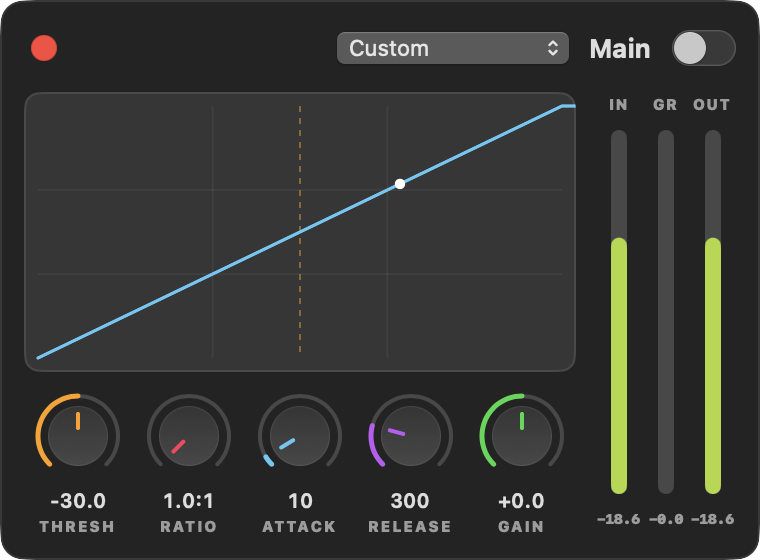
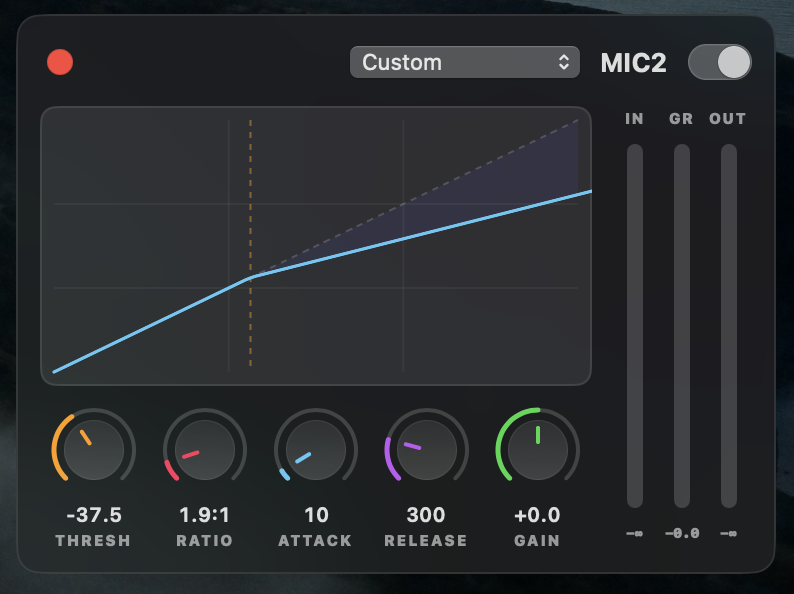
Replace the popover, EQ and compressor screenshots, drop the web remote shot
New screenshots show the popover over the desktop and the EQ/compressor
panels of individual channels.

diff --git a/README.md b/README.md
@@ -20,10 +20,10 @@ Dim / Mono / Speaker B, +48V / Inst на входах, уровни и веб-п
 
 <p align="center">
   <img src="docs/screenshots/popover.png" width="270" alt="Поповер в строке меню">
-  <img src="docs/screenshots/web-remote.png" width="270" alt="Веб-пульт на телефоне">
   <img src="docs/screenshots/levels.png" width="270" alt="Индикаторы уровней входов">
+  <img src="docs/screenshots/hud.png" width="270" alt="HUD громкости">
 </p>
-<p align="center"><sub>Поповер · веб-пульт для телефона · уровни входов</sub></p>
+<p align="center"><sub>Поповер · уровни входов · HUD громкости</sub></p>
 
 <details>
 <summary>Ещё скриншоты: настройки, компрессор, эквалайзер, HUD</summary>
@@ -42,7 +42,6 @@ Dim / Mono / Speaker B, +48V / Inst на входах, уровни и веб-п
 </p>
 <p align="center">
   <img src="docs/screenshots/settings-web-remote.png" width="410" alt="Настройки — Web Remote">
-  <img src="docs/screenshots/hud.png" width="250" alt="HUD громкости">
 </p>
 
 </details>

diff --git a/README.en.md b/README.en.md
@@ -16,10 +16,10 @@ Speaker B, +48V and Inst on inputs, level meters, and a web remote for your phon
 
 <p align="center">
   <img src="docs/screenshots/popover.png" width="270" alt="Menu bar popover">
-  <img src="docs/screenshots/web-remote.png" width="270" alt="Web remote on a phone">
   <img src="docs/screenshots/levels.png" width="270" alt="Input level meters">
+  <img src="docs/screenshots/hud.png" width="270" alt="Volume HUD">
 </p>
-<p align="center"><sub>Popover · web remote on a phone · input levels</sub></p>
+<p align="center"><sub>Popover · input levels · volume HUD</sub></p>
 
 <details>
 <summary>More: settings, compressor, EQ, HUD</summary>
@@ -38,7 +38,6 @@ Speaker B, +48V and Inst on inputs, level meters, and a web remote for your phon
 </p>
 <p align="center">
   <img src="docs/screenshots/settings-web-remote.png" width="410" alt="Settings — Web Remote">
-  <img src="docs/screenshots/hud.png" width="250" alt="Volume HUD">
 </p>
 
 </details>
